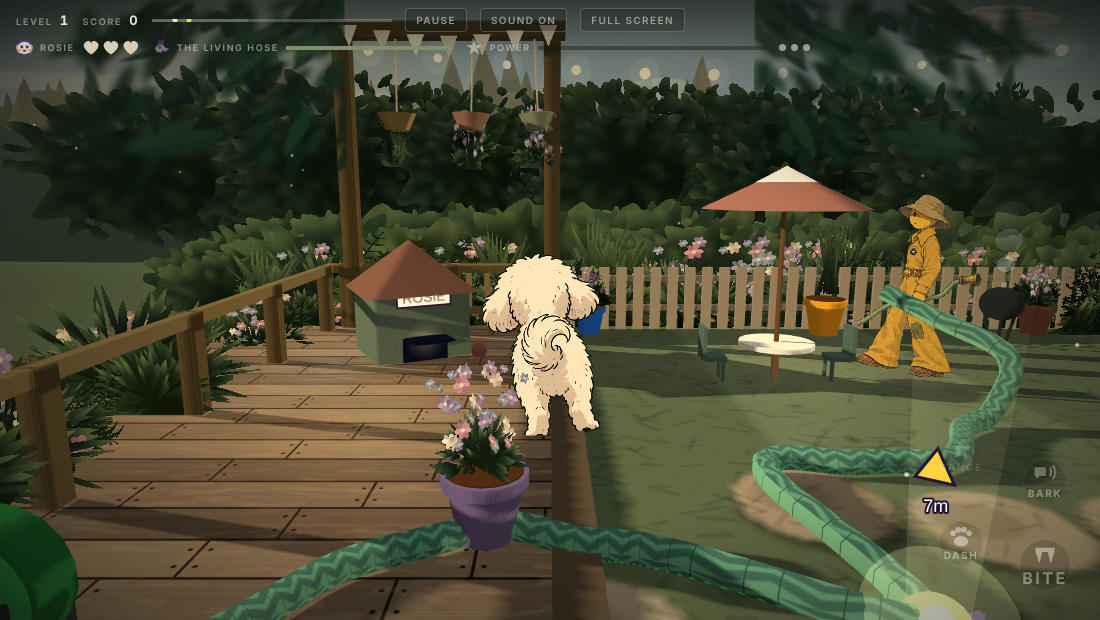
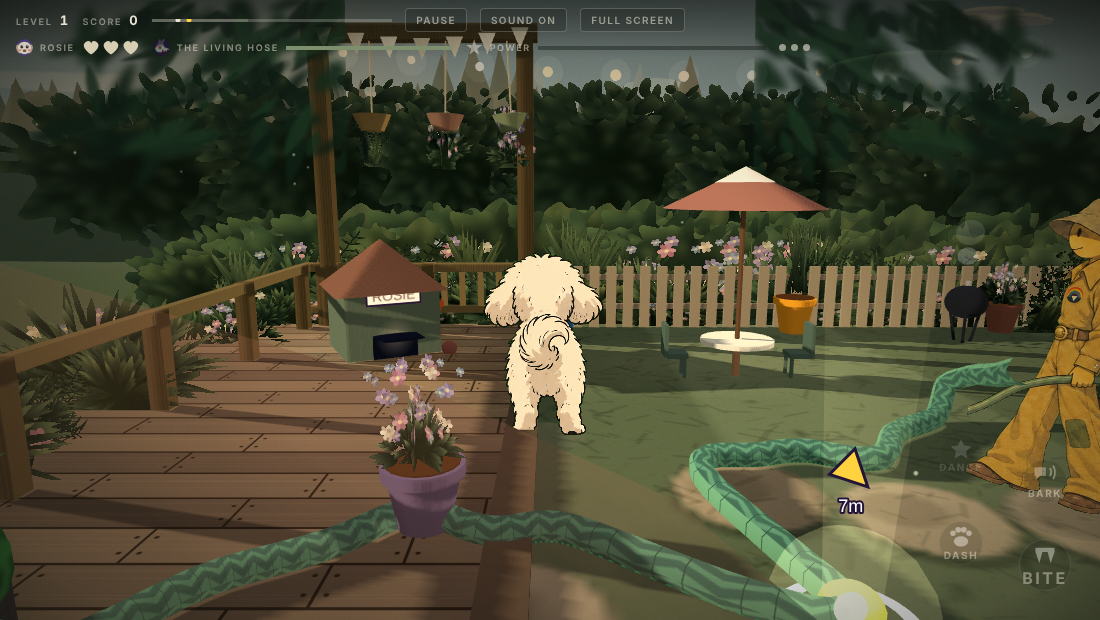
feat(art): painted Mr. Hose and the dragon at the hose head; 15 turnaround angles cut
The hose BODY stays 3D — it writhes, coils and is bitten along its length, and
no stack of drawings can do that. Its HEAD becomes the user's painted
character, standing at the nozzle end with the rope trailing behind it as its
own hose, which is how the character is drawn. The dragon set takes over for
the boss.

Five painted angles chosen from the direction the head travels, mirrored for
the other side, with the same hysteresis and turn-squeeze as Rosie so a swap
reads as turning rather than popping.

Also cut the user's three final five-angle turnarounds — Mr. Hose, the gardener
and the Living Hose dragon — at front, front-three-quarter, side,
rear-three-quarter and back. These sheets arrived without captions, so the
caption-stripping pass had nothing to do for the first time.

Evidence: production/qa/evidence/pr2-moving.png
Design: design/art/painted-rosie.md

Claude-Session: https://claude.ai/code/session_01JR8fsw3Uh5kViP8MJWMfnz

diff --git a/src/index.html b/src/index.html
@@ -2535,6 +2535,51 @@ const angryEyes=(g,x,y,r)=>{const ps=[];for(const s of [1,-1]){const z0=s*r*1.1;
 const trackEyes=(ps,g,r)=>{const ry=g.rotation.y,dx=R.x-g.position.x,dz=zOf(R.y)-g.position.z,l=Math.hypot(dx,dz)||1,c=Math.cos(ry),sn=Math.sin(ry),lx=(dx*c-dz*sn)/l,lz=(dx*sn+dz*c)/l;for(const e of ps){e.p.position.x=e.bx+lx*r*.24;e.p.position.z=e.z0+lz*r*.26;}};
 const scar3=[...Array(16)].map(()=>sph(scene,M('#0c3318',{roughness:.9}),9,0,0,0,1,.55,1,false)),HOSE_W=new THREE.Color('#a9bf52');
 const nozHead=grp(scene);nozHead.scale.setScalar(1.6);let nozEyes,nozJaw;
+/* ---- PAINTED MR. HOSE / THE LIVING HOSE ----------------------------------------------------
+   The hose BODY stays 3D -- it writhes, coils and is bitten along its length, and no stack of
+   drawings can do that. Its HEAD becomes the user's painted character, standing at the nozzle
+   end with the rope trailing behind it as its own hose, which is exactly how the character is
+   drawn. Five painted angles, chosen from the direction the head is travelling, mirrored for
+   the other side; the dragon set takes over for the boss. Same hysteresis and turn-squeeze as
+   Rosie, so switching drawings reads as turning rather than popping. */
+const PH={on:true,ready:0,tex:{},h:190,view:'f',flip:false,turn:0,bob:0};
+(function(){
+ const L=new THREE.TextureLoader(),V=['f','fq','s','rq','b'],S=['hose','drag'];let want=V.length*S.length;
+ S.forEach(s=>V.forEach(v=>L.load('art/'+s+'_'+v+'.png',tx=>{
+   tx.encoding=THREE.sRGBEncoding;tx.minFilter=THREE.LinearFilter;tx.magFilter=THREE.LinearFilter;
+   tx.generateMipmaps=false;tx.anisotropy=4;PH.tex[s+'_'+v]=tx;if(++PH.ready===want)PH.go=true;},
+   undefined,()=>{PH.on=false;})));
+ PH.mat=new THREE.MeshBasicMaterial({transparent:true,alphaTest:.34,depthWrite:true,toneMapped:false,side:THREE.DoubleSide});
+ PH.spr=new THREE.Mesh(new THREE.PlaneGeometry(1,1),PH.mat);PH.spr.visible=false;PH.spr.renderOrder=3;scene.add(PH.spr);
+})();
+function phUpdate(dt,t,boss){
+  if(!PH.on||!PH.go||!nozHead.visible){if(PH.spr)PH.spr.visible=false;return false;}
+  nozHead.visible=false;                       /* the built dragon head steps aside */
+  const set=boss?'drag':'hose';
+  const camY=Math.atan2(cam.position.x-nozHead.position.x,cam.position.z-nozHead.position.z);
+  let rel=(-nozHead.rotation.y)-camY;rel=Math.atan2(Math.sin(rel),Math.cos(rel));
+  const ar=Math.abs(rel),M=0.14;
+  let v;
+  if(ar<Math.PI*0.22+(PH.view==='b'?M:-M))      v='b';
+  else if(ar<Math.PI*0.46+(PH.view==='rq'?M:-M))v='rq';
+  else if(ar<Math.PI*0.70+(PH.view==='s'?M:-M)) v='s';
+  else if(ar<Math.PI*0.88+(PH.view==='fq'?M:-M))v='fq';
+  else                                           v='f';
+  let flip=PH.flip;
+  if(rel>M)flip=false;else if(rel<-M)flip=true;
+  if(v!==PH.view||flip!==PH.flip){PH.turn=1;PH.view=v;PH.flip=flip;}
+  PH.turn=Math.max(0,PH.turn-dt*6.5);
+  const tx=PH.tex[set+'_'+v];if(!tx)return false;
+  if(PH.mat.map!==tx){PH.mat.map=tx;PH.mat.needsUpdate=true;}
+  PH.bob=lerp(PH.bob,Math.sin(t*4.4)*4,1-Math.exp(-dt*9));
+  const asp=tx.image?tx.image.width/tx.image.height:.7;
+  const h=PH.h*(boss?1.5:1),w=h*asp*(1-0.46*PH.turn*PH.turn);
+  PH.spr.scale.set(flip?-w:w,h,1);
+  PH.spr.position.set(nozHead.position.x,h*.5+PH.bob,nozHead.position.z);
+  PH.spr.rotation.set(0,camY,0);
+  PH.spr.visible=true;
+  return true;
+}
 /* boss-and-dance-mode.md 1.1: the nozzle is a DRAGON head. The group, the 1.6 scale, nozEyes, nozJaw and
    trackEyes() are untouched, so aiming, the jaw-drop telegraph and eye tracking keep working. It reads
    menacing through SILHOUETTE -- horns, brow, jaw -- not through light: no emissive anywhere on this head,
@@ -3069,7 +3114,7 @@ function render3D(dt){
     const wf=.5+.5*Math.sin(t*16);
     weakM.color.set(hot?mix('#fff6c0','#ffffff',wf):'#ffd23f');weakM.emissive.set(hot?mix('#9a7a00','#fff4b0',wf):'#aa7700');
     weakGlow.material.color.set(hot?mix('#fff0b8','#ffffff',wf):'#ffe070');weakBeam.material.color.copy(weakGlow.material.color);}
-  nozHead.visible=!Hm.grabbed&&!ruined;if(nozHead.visible){const a=rope[N-3],b=rope[N];nozHead.position.set(b.x,b.z+14,zOf(b.y));nozHead.rotation.y=-Math.atan2(zOf(b.y)-zOf(a.y),b.x-a.x);trackEyes(nozEyes,nozHead,9);nozJaw.rotation.z=lerp(nozJaw.rotation.z,hTele?-.55:0,1-Math.exp(-dt*14));}
+  nozHead.visible=!Hm.grabbed&&!ruined;if(nozHead.visible){const a=rope[N-3],b=rope[N];nozHead.position.set(b.x,b.z+14,zOf(b.y));nozHead.rotation.y=-Math.atan2(zOf(b.y)-zOf(a.y),b.x-a.x);trackEyes(nozEyes,nozHead,9);nozJaw.rotation.z=lerp(nozJaw.rotation.z,hTele?-.55:0,1-Math.exp(-dt*14));}phUpdate(dt,t,booga||dance);
   midHead.visible=phase===3&&Hm.grabbed&&!ruined;if(midHead.visible){const a=rope[MID-3],b=rope[MID];midHead.position.set(b.x,b.z+22,zOf(b.y));midHead.rotation.y=-Math.atan2(zOf(R.y)-zOf(b.y),R.x-b.x);trackEyes(midEyes,midHead,9);}
   /* the hot band and the lasso ring */
   if(ruined||Hot.ph==='off')hot3.visible=false;
